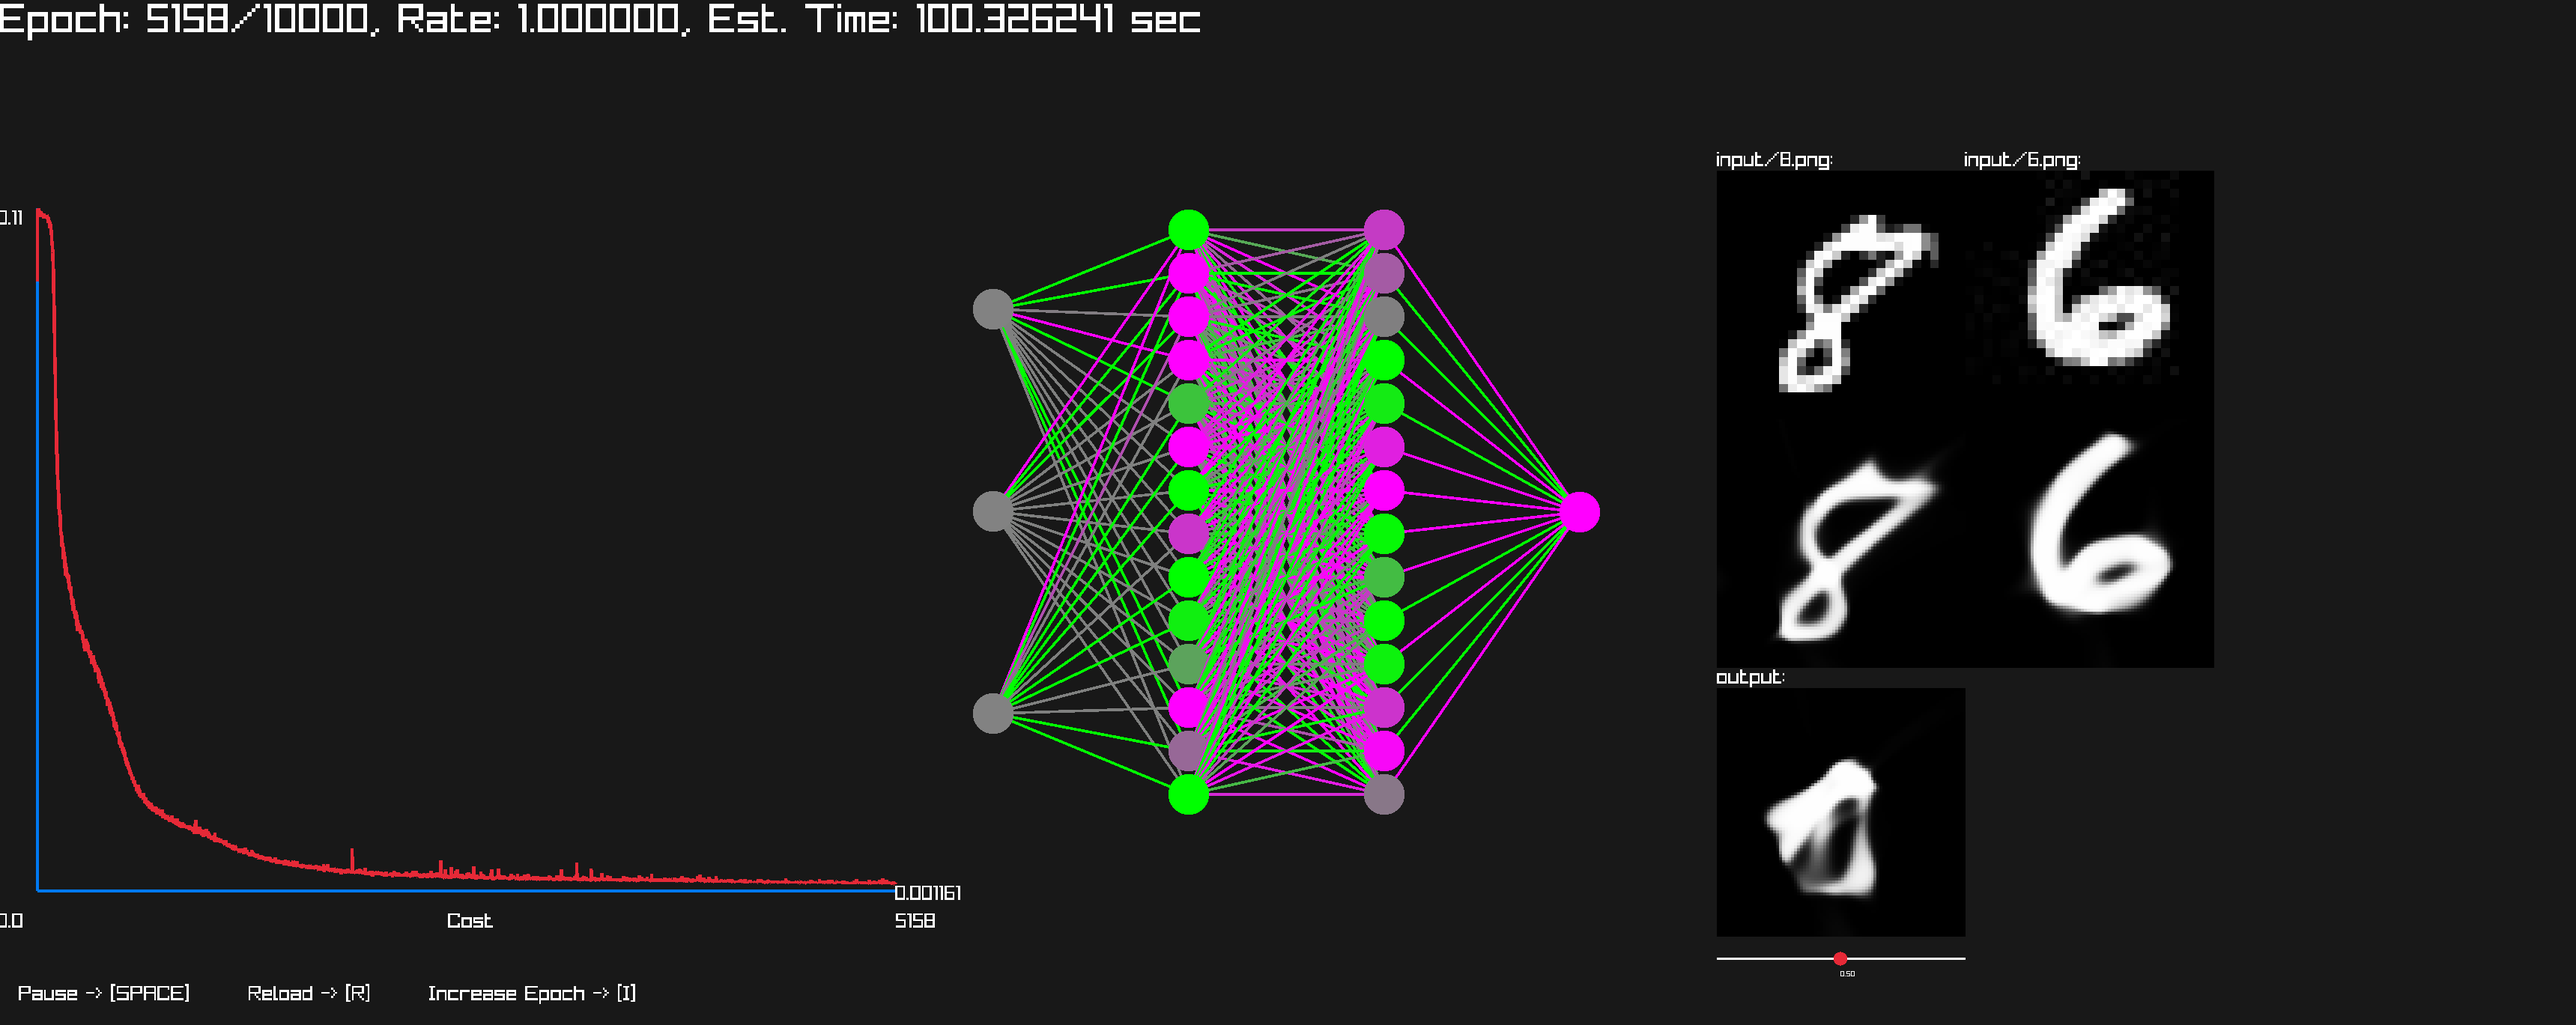
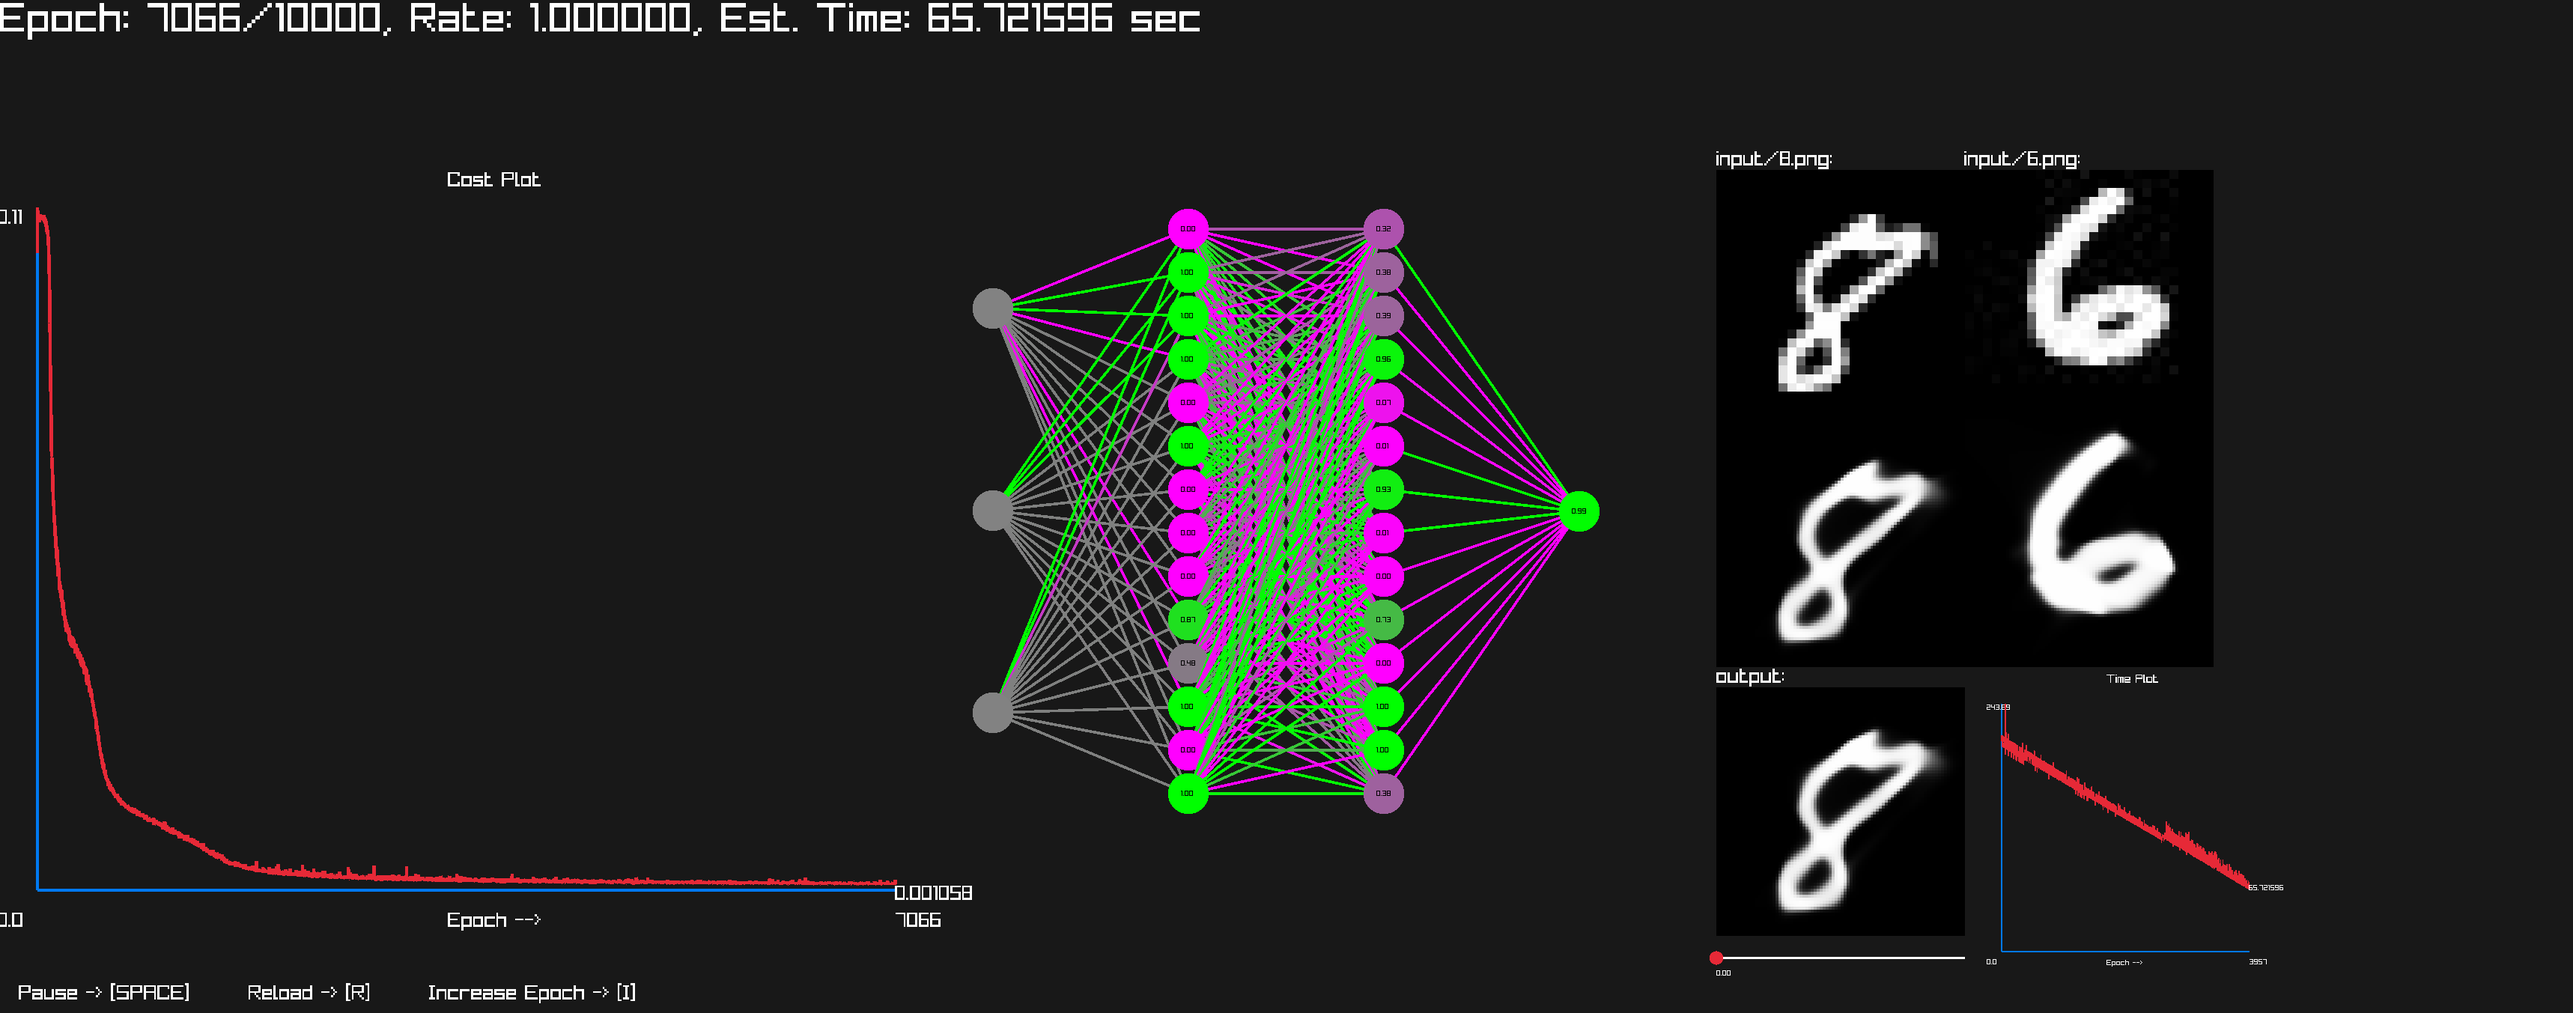
[UI] time plot, float values

diff --git a/upscale_img.cpp b/upscale_img.cpp
@@ -39,7 +39,7 @@ typedef struct {
 	float* items;
 	size_t count;
 	size_t capacity;
-} Cost_Plot;
+} Plot;
 
 size_t arch[] = { 3, 14, 14, 1 };
 
@@ -82,8 +82,13 @@ void nn_render_raylib(NN nn, int rx, int ry, int rw, int rh)
 			}
 			// neuron bias color
 			if (l > 0) {
-				high_color.a = floorf(255.f * sigmoidf(MAT_AT(nn.ws[l - 1], 0, i)));
-				DrawCircle(cx1, cy1, neuron_radius, ColorAlphaBlend(low_color, high_color, WHITE));
+				float value = sigmoidf(MAT_AT(nn.ws[l - 1], 0, i));
+				high_color.a = floorf(255.f * value);
+				Color circle_color = ColorAlphaBlend(low_color, high_color, WHITE);
+				DrawCircle(cx1, cy1, neuron_radius, circle_color);
+				char buffer[256];
+				snprintf(buffer, sizeof(buffer), "%.2f", value);
+				DrawText(buffer, cx1 - rh * 0.01, cy1 - rh * 0.005, rh * 0.01, BLACK);
 			}
 			else {
 				DrawCircle(cx1, cy1, neuron_radius, GRAY);
@@ -92,7 +97,7 @@ void nn_render_raylib(NN nn, int rx, int ry, int rw, int rh)
 	}
 }
 
-void cost_plot_minmax(Cost_Plot plot, float* min, float* max)
+void plot_minmax(Plot plot, float* min, float* max)
 {
 	*min = FLT_MAX;
 	*max = FLT_MIN;
@@ -103,13 +108,13 @@ void cost_plot_minmax(Cost_Plot plot, float* min, float* max)
 	}
 }
 
-void plot_cost_raylib(Cost_Plot plot, int rx, int ry, int rw, int rh)
+void plot_raylib(Plot plot, int rx, int ry, int rw, int rh)
 {
 	int layer_border_hpad = 50;
 	int layer_border_vpad = 50;
 
 	float min, max;
-	cost_plot_minmax(plot, &min, &max);
+	plot_minmax(plot, &min, &max);
 
 	if (min > 0) min = 0;
 	size_t n = plot.count;
@@ -154,9 +159,6 @@ void plot_cost_raylib(Cost_Plot plot, int rx, int ry, int rw, int rh)
 
 	snprintf(buffer, sizeof(buffer), "%f", plot.items[plot.count - 1]);
 	DrawText(buffer, end.x, end.y, text_font_size, WHITE);
-
-	DrawText("Cost", x_axis.x / 2, origin.y + rh * 0.03, text_font_size, WHITE);
-
 }
 
 char* args_shift(int* argc, char*** argv)
@@ -262,8 +264,9 @@ int main(int argc, char** argv)
 
 	float average_cost = 0.0f;
 
-	// cost
-	Cost_Plot plot = { 0 };
+	// plots
+	Plot cost_plot = { 0 };
+	Plot time_plot = { 0 };
 
 	// training neural network and visualization
 	// creating window
@@ -305,7 +308,7 @@ int main(int argc, char** argv)
 		if (IsKeyPressed(KEY_R)) {
 			epoch = 0;
 			nn_rand(nn, -1.f, 1.f);
-			plot.count = 0;
+			cost_plot.count = 0;
 		}
 
 		if (IsKeyPressed(KEY_I)) {
@@ -343,7 +346,7 @@ int main(int argc, char** argv)
 
 			if (batch_begin >= t.rows) {
 				++epoch;
-				da_append(&plot, average_cost/batch_count, float);
+				da_append(&cost_plot, average_cost/batch_count, float);
 				average_cost = 0.0f;
 				batch_begin = 0;
 				mat_shuffle_rows(t);
@@ -364,7 +367,9 @@ int main(int argc, char** argv)
 			rh = h * 2 / 3;
 			rx = 0;
 			ry = h / 2 - rh / 2;
-			plot_cost_raylib(plot, rx, ry, rw, rh);
+			plot_raylib(cost_plot, rx, ry, rw, rh);
+			DrawText("Cost Plot", rx + 25 + rw * 0.5f, ry, rh * 0.03, WHITE);
+			DrawText("Epoch -->", rx + 25 + rw * 0.5f, ry + 50 + rh + rh * 0.03, rh * 0.03, WHITE);
 
 			// instructions render
 			DrawText("Pause -> [SPACE]\t\t\t\t\tReload -> [R]\t\t\t\t\tIncrease Epoch -> [I]", rx + 25, h - 2 * h * 0.02, h * 0.02, WHITE);
@@ -463,7 +468,14 @@ int main(int argc, char** argv)
 				end = clock();
 				t_speed = (((float)end - (float)start) * batch_count/ (batches_per_frame * CLOCKS_PER_SEC));
 				est_time = (max_epoch - epoch) * t_speed;
+				da_append(&time_plot, est_time, float);
 			}
+
+			rx += prev_width * scale / factor;
+			ry += prev_height * 2 * scale / factor;
+			plot_raylib(time_plot, rx, ry, prev_width * scale / factor, prev_height * scale / factor);
+			DrawText("Time Plot", rx + 25 + prev_width * 0.5f * scale / factor, ry + prev_height * scale / factor * 0.03, prev_height * scale / factor * 0.05, WHITE);
+			DrawText("Epoch -->", rx + 25 + prev_width * 0.5f * scale / factor, ry + 50 + prev_height * scale / factor + prev_height * scale / factor * 0.03, prev_height * scale / factor * 0.03, WHITE);
 
 			snprintf(buffer, sizeof(buffer), "Epoch: %zu/%zu, Rate: %f, Est. Time: %f sec", epoch, max_epoch, rate, est_time);
 			DrawText(buffer, 0, 0, h * 0.04, WHITE);
